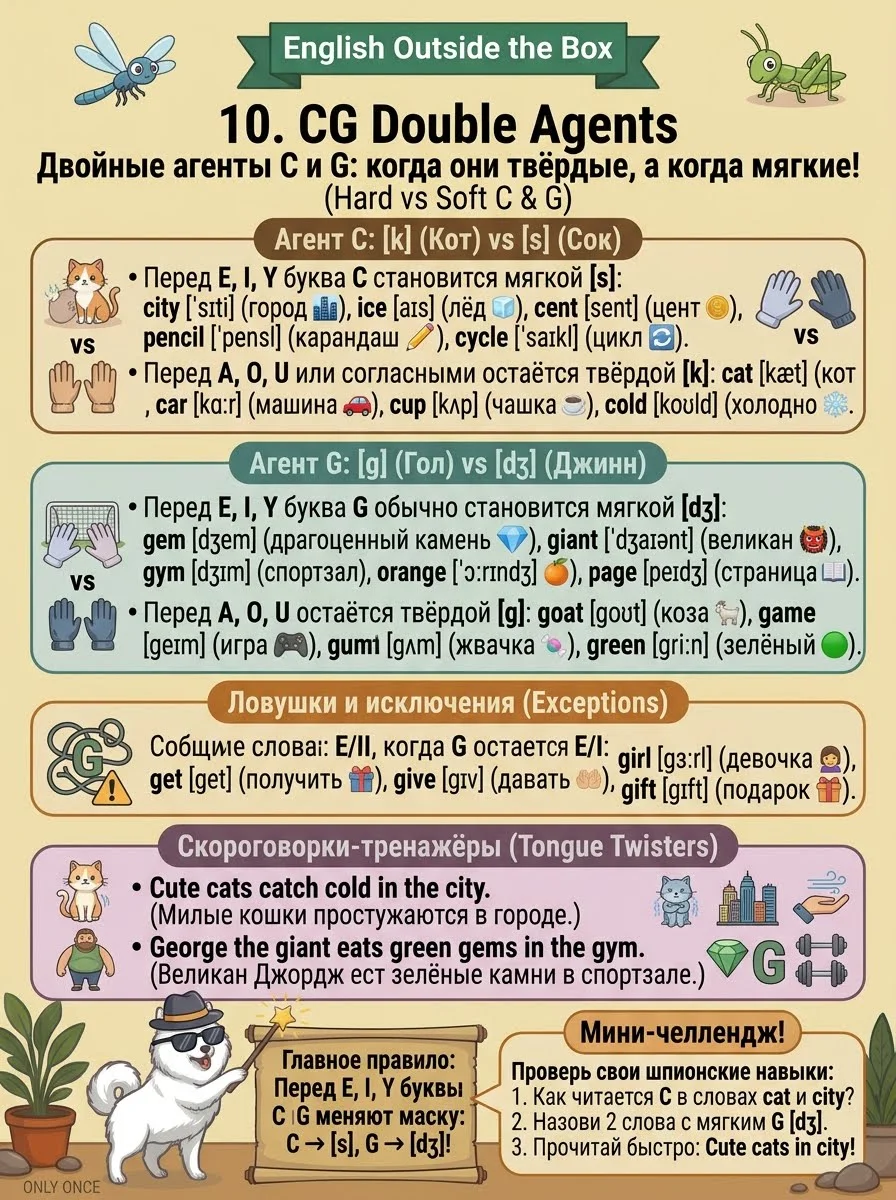
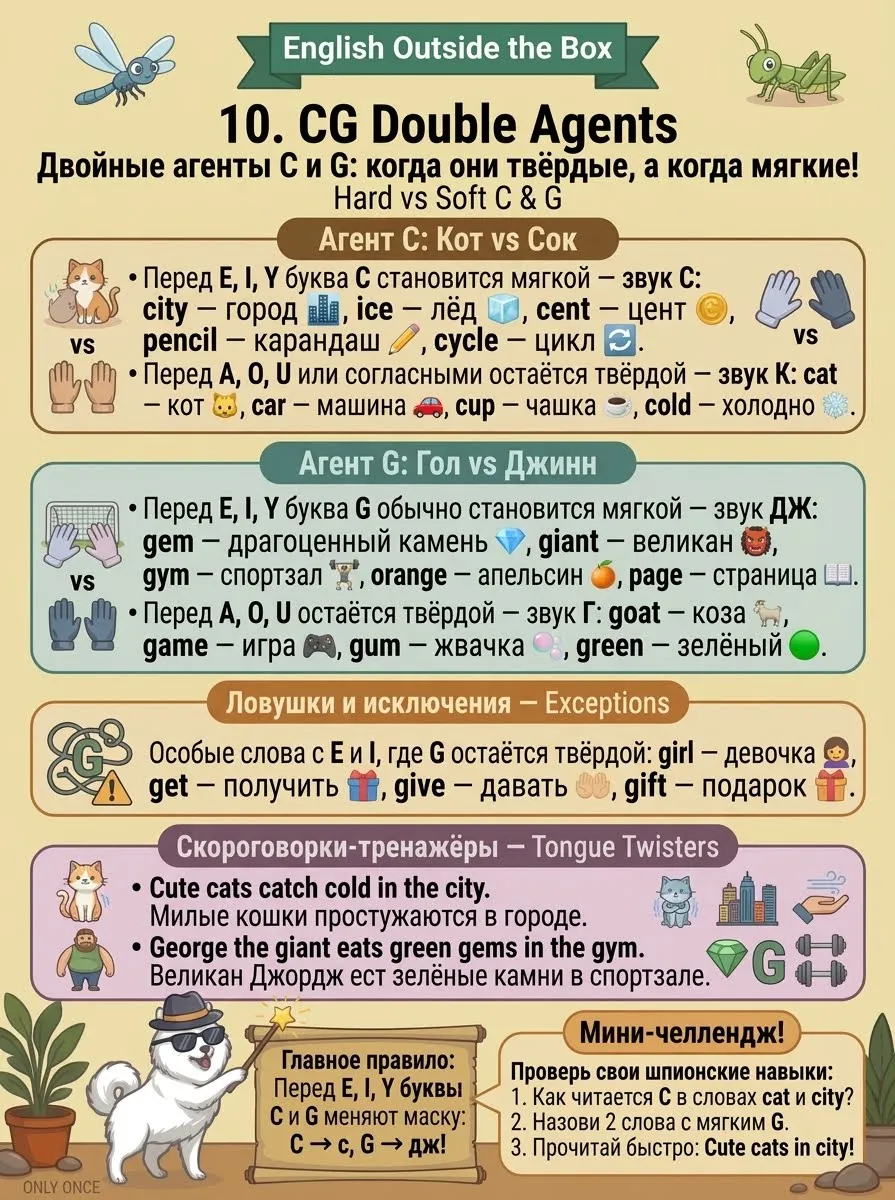
Published multiple files

diff --git a/src/site/notes/10. CG Double Agents.md b/src/site/notes/10. CG Double Agents.md
@@ -6,8 +6,9 @@
 # 🎭 Урок-Квест 010: «Двойные Агенты: Hard & Soft C and G»
 
 > [!abstract] Секрет мироздания: Две маски шпионов
-> Буквы **`C`** и **`G`** — это секретные агенты на службе английского алфавита. У каждого из них есть две маски: **Твёрдая *(Грубая 👹)*** и **Мягкая *(Добрая 😇)***.  
-> Обычно они ходят в своих твёрдых масках. Но как только за их спиной появляются «капризные» гласные-волшебницы **`E`**, **`I`** или **`Y`**, шпионы мгновенно отбрасывают грубость и становятся мягкими! ✨
+> Буквы **`c`** и **`g`** — это секретные агенты на службе английского алфавита. У каждого из них есть две маски: **Твёрдая *(Грубая 👹)*** и **Мягкая *(Добрая 😇)***.  
+> Обычно они ходят в своих твёрдых масках. Но как только за их спиной появляются «капризные» гласные-волшебницы **`e`**, **`i`** или **`y`**, шпионы мгновенно отбрасывают грубость и становятся мягкими! ✨
+> **C, G are soft in front of E, I, Y. Hard everywhere else.** 
 
 ---
 
@@ -15,8 +16,8 @@
 
 ### 👤 Агент 1: Буква `C` `[siː]`
 
-- **👹 Твёрдая маска *(Hard C)*:** Звучит грубо, как **`[k]`** *(обычное русское «К»)*. Включается перед всеми буквами на свете, кроме капризной тройки.
-- **😇 Мягкая маска *(Soft C)*:** Звучит мягко, как **`[s]`** *(свистящее русское «С»)*. Включается **ТОЛЬКО** перед **`E`**, **`I`**, **`Y`** *(кроме диграфа **`ch`**, который шипит «Ч-ч-ч»!)*.
+- **👹 Твёрдая маска *(Hard C)*:** Звучит грубо, как **`[k]`** *(обычное русское «К»)*. Включается перед всеми буквами на свете, кроме «капризной тройки»
+- **😇 Мягкая маска *(Soft C)*:** Звучит мягко, как **`[s]`** *(свистящее русское «С»)*. Включается она **ТОЛЬКО** перед **`E`**, **`I`**, **`Y`** *(кроме диграфа **`ch`**, который шипит «Ч-ч-ч»!)*
 
 **Примеры для тренировки:**
 - **cat** `[kæt]` — кошка 🐈 *(после `c` стоит `a` — маска твёрдая!)*
@@ -52,10 +53,10 @@
 
 ### 📊 Сводный радар масок
 
-| Агент | 👹 Твёрдая маска *(перед `A`, `O`, `U` и согласными)* | 😇 Мягкая маска *(ТОЛЬКО перед `E`, `I`, `Y`)* |
-| :---: | :--- | :--- |
-| **`C c`** | **`[k]`** — **c**at, **c**up, **c**ar | **`[s]`** — **c**ity, fa**c**e, **c**ycle |
-| **`G g`** | **`[ɡ]`** — **g**ame, **g**un, **g**o | **`[dʒ]`** — **g**iant, ca**g**e, **g**ym |
+|   Агент   | 👹 Твёрдая маска *(перед `A`, `O`, `U` и согласными)* | 😇 Мягкая маска *(ТОЛЬКО перед `E`, `I`, `Y`)* |
+| :-------: | :---------------------------------------------------- | :--------------------------------------------- |
+| **`C c`** | **`[k]`** — **c**at, **c**up, **c**ar                 | **`[s]`** — **c**ity, fa**c**e, **c**ycle      |
+| **`G g`** | **`[ɡ]`** — **g**ame, **g**un, **g**o                 | **`[dʒ]`** — **g**iant, ca**g**e, **g**ym      |
 
 ---
 
@@ -77,9 +78,9 @@
   Посмотри на букву, которая стоит сразу после шпиона **`C`** или **`G`**, определи его маску и прочитай слова вслух без ошибок:  
   **`Cake` · `pencil` · `go` · `orange` · `ice` · `gas` · `page` · `cry`** 🍰✏🏃♂🍊🧊⛽📄😢  
   - *Подсказка:* В слове **pencil** после **`c`** стоит капризная **`i`**, значит срываем маску и читаем мягко: **`[ˈpensl]`**!  
-  - Найди среди этих слов **цитрус**, **лёд** и **торт** — прочитай их громко и чётко! 🔎
+  - Найди среди этих слов **цитрус**, **лёд** и **торт** — прочитай их чётко! 🔎
 
-- [ ] **2. 🗣 Скороговорка-контраст (2 мин):**  
+- [ ] **2. 🗣 Скороговорка-контраст (2 мин):**
   Повтори три раза. Следи за тем, как язык переключается с мягкого джаза **`[dʒ]`** *(в словах **gentle**, **giants**, **giant**)* на твёрдый рык **`[ɡ]`** *(в словах **grow**, **grapes**)*:  
   > **«Gentle giants grow giant grapes.»** 😇🍇  
   > *(Деликатные великаны выращивают огромный виноград.)*

diff --git a/src/site/notes/27. Метод собачьей дрессировки.md b/src/site/notes/27. Метод собачьей дрессировки.md
@@ -3,7 +3,7 @@
 ---
 
 
-**«Метод служебной собаки» — это спасение**. Мы убираем говорение, включаем тело, реакцию и стопроцентный дофамин. 45 минут ⏳
+**«Метод служебной собаки» — это спасение**. Мы убираем говорение, включаем тело, реакцию и стопроцентный дофамин. 
 
 Переходим на **кинологическую тренировку спецназа** (К-9) с нашими предметами: bed, desk, window, pencils, notebook, ipad, phone.
 

diff --git a/src/site/notes/26. Метод попугая.md b/src/site/notes/26. Метод попугая.md
@@ -3,7 +3,7 @@
 ---
 
 
-**To parrot** — попугайничать. 45 минут ⏳
+**to parrot** — *попугайничать*. 
 
 Метод «Попугая» — идеальный инструмент обучения: он **полностью исключает перевод**, убирает необходимость писать и опирается только на то, что ученик видит прямо перед собой здесь и сейчас. Мозг не перегружается абстракциями.
 
